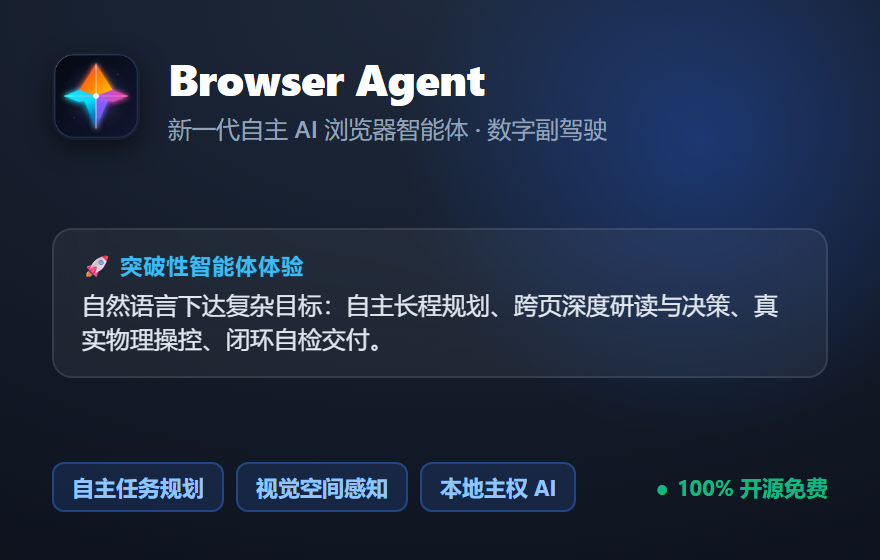
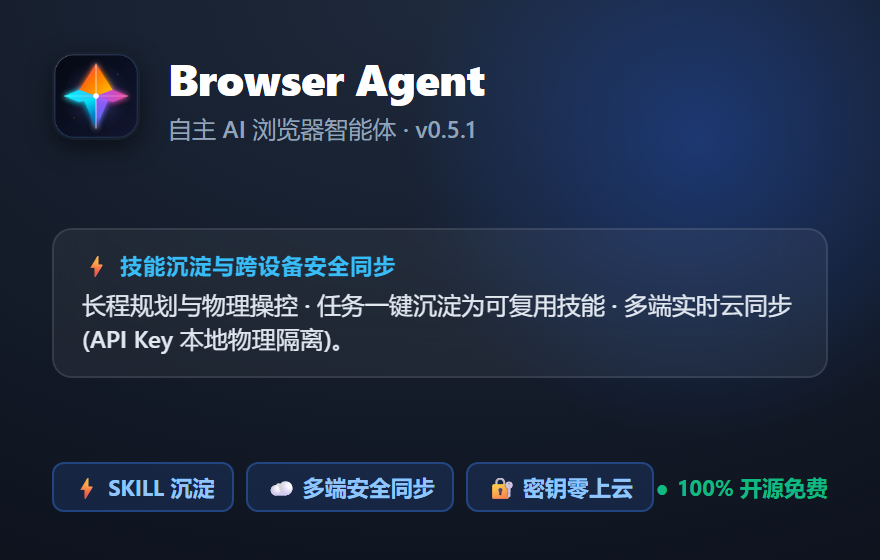
docs(release): regenerate v0.5.1 store assets, hero showcase, and announcement copy

Changed region(s): [[0.092, 0.4554, 0.9205, 0.6375], [0.0614, 0.8196, 0.767, 0.9411], [0.1841, 0.2125, 0.7057, 0.2732]]

diff --git a/scripts/assets/store-hero.html b/scripts/assets/store-hero.html
@@ -467,14 +467,14 @@
     <div class="main-title-box">
       <img src="../../public/icons/icon128.png" style="width: 44px; height: 44px; border-radius: 10px; box-shadow: 0 4px 12px rgba(0,0,0,0.5); margin-right: 12px;">
       <div class="title-text">
-        <h1>Browser Agent <span class="pill-tag">新一代自主智能体</span></h1>
-        <p>感知 · 规划 · 跨页探索 · 物理级操控 · 自我校验 — 个人专属的数字副驾驶</p>
+        <h1>Browser Agent <span class="pill-tag">v0.5.1 新一代自主智能体</span></h1>
+        <p>目标驱动 · 跨页探索 · 物理操控 · ⚡ SKILL 技能沉淀 · ☁ 跨设备安全云同步</p>
       </div>
     </div>
     <div class="feature-chips">
-      <div class="chip">🧠 自主任务规划与自检闭环</div>
-      <div class="chip">👁 真实物理操控 (CDP + 空间视觉)</div>
-      <div class="chip">🔒 本地主权 AI (零云端中转 · BYOK)</div>
+      <div class="chip">⚡ SKILL 沉淀与自适应回放</div>
+      <div class="chip">☁ 跨设备安全云同步</div>
+      <div class="chip">🔒 密钥本地物理隔离 (零上云)</div>
     </div>
   </div>
 
@@ -576,6 +576,24 @@
             <div class="news-meta">205 points by dev_lus 9 hours ago | 52 comments</div>
           </div>
         </div>
+
+        <!-- Floating Skill & Sync Badges -->
+        <div style="position: absolute; bottom: 16px; left: 16px; right: 16px; display: flex; gap: 12px; z-index: 20;">
+          <div style="flex: 1; background: rgba(15, 23, 42, 0.92); backdrop-filter: blur(12px); border: 1px solid rgba(255,255,255,0.18); border-radius: 10px; padding: 8px 12px; display: flex; align-items: center; gap: 10px; box-shadow: 0 8px 24px rgba(0,0,0,0.5);">
+            <div style="font-size: 18px; width: 34px; height: 34px; background: rgba(99,102,241,0.3); border-radius: 8px; display: flex; align-items: center; justify-content: center; flex-shrink: 0;">⚡</div>
+            <div>
+              <div style="font-size: 12px; font-weight: 700; color: #fff;">语义化 SKILL 技能沉淀</div>
+              <div style="font-size: 10.5px; color: #94a3b8;">自动参数化提取 · 跨页自适应回放 · JSON 导入导出</div>
+            </div>
+          </div>
+          <div style="flex: 1; background: rgba(15, 23, 42, 0.92); backdrop-filter: blur(12px); border: 1px solid rgba(255,255,255,0.18); border-radius: 10px; padding: 8px 12px; display: flex; align-items: center; gap: 10px; box-shadow: 0 8px 24px rgba(0,0,0,0.5);">
+            <div style="font-size: 18px; width: 34px; height: 34px; background: rgba(16,185,129,0.3); border-radius: 8px; display: flex; align-items: center; justify-content: center; flex-shrink: 0;">☁</div>
+            <div>
+              <div style="font-size: 12px; font-weight: 700; color: #fff;">跨设备安全云同步</div>
+              <div style="font-size: 10.5px; color: #94a3b8;">Chrome 账号多端即时同步 · API Key 本地物理隔离</div>
+            </div>
+          </div>
+        </div>
       </div>
 
       <!-- Side Panel -->
@@ -586,10 +604,15 @@
             <span>DeepSeek (deepseek-chat)</span>
             <span style="color:#64748b; font-size:10px;">▾</span>
           </div>
-          <div class="usage-stats">
-            <span class="cost">$0.002</span>
-            <span>·</span>
-            <span>1.4k tk</span>
+          <div style="display: flex; align-items: center; gap: 8px;">
+            <div style="background: rgba(99,102,241,0.12); color: #4f46e5; border: 1px solid rgba(99,102,241,0.25); padding: 2px 7px; border-radius: 6px; font-size: 11px; font-weight: 600; display: flex; align-items: center; gap: 4px;">
+              <span>📋</span> 技能 (2)
+            </div>
+            <div class="usage-stats">
+              <span class="cost">$0.002</span>
+              <span>·</span>
+              <span>1.4k tk</span>
+            </div>
           </div>
         </div>
 
@@ -646,6 +669,17 @@
               </tbody>
             </table>
             <button class="export-btn">📥 导出为深度研报 (Markdown / JSON)</button>
+          </div>
+
+          <!-- Save as Skill Prompt Card -->
+          <div style="margin-top: 10px; background: linear-gradient(135deg, #eef2ff, #f5f3ff); border: 1px solid #c7d2fe; border-radius: 8px; padding: 8px 10px; display: flex; align-items: center; justify-content: space-between; box-shadow: 0 2px 5px rgba(79,70,229,0.06);">
+            <div style="display: flex; align-items: center; gap: 6px; font-size: 11px; color: #3730a3; font-weight: 600;">
+              <span>✨</span>
+              <span>觉得这次自动化很棒？保存为可复用技能</span>
+            </div>
+            <div style="background: #4f46e5; color: #fff; padding: 3px 8px; border-radius: 5px; font-size: 10.5px; font-weight: 600; display: flex; align-items: center; gap: 3px; cursor: pointer;">
+              <span>💾</span> 保存技能
+            </div>
           </div>
         </div>
       </div>

diff --git a/scripts/assets/promo-tile.html b/scripts/assets/promo-tile.html
@@ -124,22 +124,22 @@
     <img src="../../public/icons/icon128.png" style="width: 44px; height: 44px; border-radius: 11px; box-shadow: 0 4px 12px rgba(0,0,0,0.5);">
     <div>
       <div class="brand-title">Browser Agent</div>
-      <div class="brand-desc">新一代自主 AI 浏览器智能体 · 数字副驾驶</div>
+      <div class="brand-desc">自主 AI 浏览器智能体 · v0.5.1</div>
     </div>
   </div>
 
   <div class="middle-section">
-    <div class="scenario-title">🚀 突破性智能体体验</div>
+    <div class="scenario-title">⚡ 技能沉淀与跨设备安全同步</div>
     <div class="scenario-text">
-      自然语言下达复杂目标：自主长程规划、跨页深度研读与决策、真实物理操控、闭环自检交付。
+      长程规划与物理操控 · 任务一键沉淀为可复用技能 · 多端实时云同步 (API Key 本地物理隔离)。
     </div>
   </div>
 
   <div class="bottom-section">
     <div class="chips-group">
-      <div class="pill">自主任务规划</div>
-      <div class="pill">视觉空间感知</div>
-      <div class="pill">本地主权 AI</div>
+      <div class="pill">⚡ SKILL 沉淀</div>
+      <div class="pill">☁ 多端安全同步</div>
+      <div class="pill">🔐 密钥零上云</div>
     </div>
     <div class="free-badge">
       <span>●</span> 100% 开源免费

diff --git a/docs/releases/v0.5.1.md b/docs/releases/v0.5.1.md
@@ -1,0 +1,122 @@
+# Browser Agent v0.5.1 发布说明与宣发物料指南
+
+> 🚀 **版本主题**：跨设备安全云同步与可复用 SKILL 技能体系  
+> 📅 **发布时间**：2026 年 9 月  
+> 🏷 **Git Tag**：`v0.5.1`  
+> 📦 **分发包**：`browser-agent-0.5.1.zip`
+
+---
+
+## 🌟 核心新特性概览
+
+### 1. ⚡ 可复用 SKILL 技能沉淀与自适应回放 (Issue #14)
+- **任务一键提炼沉淀**：任务执行完成后，时间线底部自动浮出「保存为技能」卡片，调用模型对执行轨迹进行语义化抽象与参数变量识别（如 `{{keyword}}`、`{{price_limit}}`）。
+- **抗改版自然语言意图**：步骤记录为高层意图而非脆弱的绝对 DOM/XPath 选择器，回放时 Agent 结合目标网页实时 DOM 动态自适应定位，页面改版依然稳定。
+- **侧边栏 📋 技能抽屉**：侧边栏顶部一键拉出技能面板，浏览全部技能、填写参数表单、一键 `[▶ 运行技能]` 立即触发执行。
+- **设置页全能技能编辑器**：提供专门的「技能」管理控制台，支持双栏查看、参数增删与校验规则配置、步骤上下调序 (▲/▼)，以及单个/全量技能 JSON 导入与导出。
+
+### 2. ☁ 跨设备安全云同步与凭证物理隔离 (Cross-Device Cloud Sync)
+- **Chrome 账号多端即时同步**：基于 `chrome.storage.sync`，你在办公室电脑上配置的模型端点与沉淀的技能库，在家中电脑自动同步更新，多端协同无缝衔接。
+- **🛡 凭证物理隔离（绝不上云）**：
+  - API Key 默认**物理隔离**在本地存储（`chrome.storage.local`），写入云端前自动清空脱敏。在公用电脑登录个人账号，也绝无泄露 API Key 的风险。
+  - 用户可显式开启「跨设备同步 API Key」（需弹出高风险确认二次授权）。
+- **Token 敏感词自动净化**：保存技能时自动过滤变量默认值中的 `sk-...`、`ghp_...` 等敏感 Token，防止误将私钥随技能共享或同步。
+- **离线镜像容灾与配额防护**：双层存储架构，所有写操作必然落盘本地，断网或超出 Chrome 100KB 配额时平滑降级，零数据丢失。
+
+---
+
+## 📢 多渠道宣发提示文案 (Release Prompts & Social Copy)
+
+### 1. GitHub Release 发布日志 (Release Notes)
+
+```markdown
+## What's Changed in v0.5.1
+
+### ⚡ Reusable SKILL Workflow System (#14)
+- **One-click Skill Crystallization**: Transform completed tasks into reusable workflows with automatic variable extraction (`{{keyword}}`, `{{category}}`).
+- **Semantic Replay**: Actions recorded as high-level intents; adaptive CDP execution resilient against UI redesigns.
+- **Side Panel Drawer**: Launch, configure parameters, and execute skills directly from the new `📋` header drawer.
+- **Options Skill Studio**: Full-featured dual-column visual editor with step reordering and batch JSON import/export.
+
+### ☁ Cross-Device Cloud Sync with Zero-Leak Secret Isolation
+- **Chrome Account Sync**: Real-time sync of model bindings, site permissions, and skills via `chrome.storage.sync`.
+- **Physical Credential Isolation**: API Keys are strictly kept in `chrome.storage.local` per machine by default and sanitized prior to cloud sync. No credential leaks on shared computers.
+- **Token Sanitizer**: Automatic scrubbing of secret tokens (`sk-...`) in skill default values.
+- **Offline Mirroring**: Dual-layer architecture provides full offline fallback when disconnected.
+
+### 🎨 Visual & Store Asset Updates
+- Refreshed 1280x800 Store Hero, 440x280 Promo Tile, and extension screenshots.
+- Bumped version to 0.5.1 across manifest, package.json, and distribution packages.
+
+**Full Changelog**: https://github.com/lusipad/browser-agent/compare/v0.5.0...v0.5.1
+```
+
+---
+
+### 2. Chrome Web Store 更新说明 (What's New in this Version)
+
+**中文 (100% 简练)**:
+```
+v0.5.1 重大更新：
+1. ⚡ 新增「SKILL 技能沉淀」：任务完成后一键保存为可复用模板，侧栏抽屉即开即用，支持参数化与 JSON 导入导出。
+2. ☁ 新增「跨设备安全云同步」：通过 Chrome 账号在多台电脑间实时同步模型接入与技能库；API Key 默认本地物理隔离绝不上云，保障极端安全。
+3. 🛠 优化长程规划执行稳定性与离线容灾镜像。
+```
+
+**English**:
+```
+v0.5.1 Major Update:
+1. ⚡ Reusable SKILL Workflows: Turn any completed task into a reusable parameterized template with one click. Run from the side panel drawer or import/export via JSON.
+2. ☁ Secure Cross-Device Cloud Sync: Sync model configs and skills across your computers via Chrome account. API Keys are physically isolated on each machine and never sent to cloud sync.
+3. 🛠 Enhanced CDP execution stability and offline mirroring.
+```
+
+---
+
+### 3. 社交媒体短推文 (X / Twitter)
+
+```text
+🚀 Browser Agent v0.5.1 现已发布！带来两大重磅升级：
+
+1⃣ ⚡ 可复用 SKILL 技能沉淀：自动化任务完成后，一键提取为语义化参数模板（比如“在京东按{{预算}}比价”）。下次直接在侧边栏抽屉填参数秒跑！
+2⃣ ☁ 跨设备安全云同步：多台电脑配置与技能库无缝同步！核心凭证物理隔离，API Key 绝不上云，公用电脑使用同样安全。
+
+纯本地主权 · 100% BYOK · 原生 CDP 控制
+👉 GitHub 开源：https://github.com/lusipad/browser-agent
+
+#AI #ChromeExtension #BrowserAgent #OpenSource #DeepSeek
+```
+
+---
+
+### 4. 开发者社区长文 (V2EX / 即刻 / 掘金)
+
+**标题**：开源 Chrome 侧边栏 AI 智能体 Browser Agent v0.5.1：支持工作流沉淀为 SKILL 与零泄露跨设备同步
+
+**正文要点**：
+- **引言**：每次让 AI Agent 帮我们在复杂网页中找数据、填表、比价，完成后怎么把这段高价值的工作流变成以后一键可复用的“技能（Macro）”？
+- **SKILL 机制解析**：传统自动化工具（Selenium/Puppeteer）靠 CSS/XPath，网页一更新就挂。Browser Agent 采用“语义化意图 + 自适应感知”：保存时 LLM 将操作提炼为自然语言意图（例如“点击标有‘加入购物车’的按钮”），执行时 Agent 结合当下的 DOM 结构智能匹配，抗改版能力极强。
+- **跨设备同步如何兼顾安全？**：采用 `chrome.storage.sync` 时，大家最担心的是 API Key 同步到公司电脑或公共电脑导致泄露。我们设计了**分层物理隔离机制**：云端只同步无密钥的配置骨架与技能库，真实 API Key 仅锁死在本机 `chrome.storage.local`，从根源消除安全隐患。
+- **体验与开源地址**：代码完全开源，支持 Ollama、DeepSeek、OpenAI 等任意兼容端点。
+
+---
+
+## 🖼 配图资产清单 (Generated Assets)
+
+| 资产文件 | 分辨率 / 格式 | 用途说明 |
+|---|---|---|
+| [`docs/screenshots/store-hero.png`](file:///d:/Repos/browser-agent/docs/screenshots/store-hero.png) | 1280×800 (Retina 2x) | Chrome Web Store 首屏核心展示大图，包含 SKILL 浮动徽章、云同步标牌与技能保存提示 |
+| [`docs/screenshots/promo-tile-440x280.png`](file:///d:/Repos/browser-agent/docs/screenshots/promo-tile-440x280.png) | 440×280 (Retina 2x) | Chrome Web Store 搜索列表与分类推荐小宣传图 |
+| [`docs/screenshots/options-skills.png`](file:///d:/Repos/browser-agent/docs/screenshots/options-skills.png) | 1280×800 | 设置页中新上线的全能「技能」双栏编辑与参数配置界面真实截图 |
+| [`docs/screenshots/options-sync.png`](file:///d:/Repos/browser-agent/docs/screenshots/options-sync.png) | 1280×800 | 设置页中「跨设备云同步与凭证安全」卡片真实截图（含配额监控与高危隔离） |
+| [`docs/screenshots/sidepanel-skills.png`](file:///d:/Repos/browser-agent/docs/screenshots/sidepanel-skills.png) | 420×750 | 侧边栏技能抽屉（Skill Drawer）真实界面截图 |
+| [`docs/screenshots/demo.gif`](file:///d:/Repos/browser-agent/docs/screenshots/demo.gif) | 动态录屏 | 侧边栏任务执行与动态自检动画 |
+
+---
+
+## 🛠 安装与验证方式
+
+1. 下载最新发布的 `browser-agent-0.5.1.zip` 并解压。
+2. 打开 Chrome，在地址栏输入 `chrome://extensions/`。
+3. 开启右上角的 **「开发者模式」**。
+4. 点击 **「加载已解压的扩展程序」**，选择解压出来的目录即可即刻体验！

diff --git a/docs/store/listing.md b/docs/store/listing.md
@@ -23,13 +23,15 @@ Browser Agent 是一款运行在 Chrome 原生侧边栏中的新一代自主 AI 
 
 🚀 核心智能体能力：
 1. 🧠 自主长程规划与自检闭环：基于认知架构，自主将复杂需求拆解为行动步骤；动作后实时感知页面变化，遇阻自主重试纠偏，直至通过验收。
-2. 🔍 跨页深度调研与信息合成：自主跨多标签页并行检索、阅读长篇文献资料、比对多方数据差异，深度提炼并输出结构化决策研报（Markdown / JSON）。
-3. ✍ 复杂业务流程端到端代劳：跨系统比对信息，自动在现代复杂管理后台中定位多层级表单并执行录入，附带可信物理击键与截图复核。
-4. 👁 原生系统级物理操控与空间视觉：基于 Chrome 官方 CDP 协议生成真实可信的物理鼠标与键盘事件；搭配 Set-of-Marks 视觉标记框，精准攻克单页应用、Shadow DOM 与动态 iframe。
+2. ⚡ 自动化工作流沉淀为 SKILL：任务完成后一键提炼为高复用技能（自动参数化变量 {{var}}，抽象为自然语言语义步骤）；侧栏抽屉即开即用，支持导入/导出共享。
+3. ☁ 跨设备安全云同步（凭证物理隔离）：基于 Chrome 账号多端实时同步模型配置与技能库；API Key 强制脱敏仅留在本机（chrome.storage.local），绝不上云，公用电脑使用无忧。
+4. 🔍 跨页深度调研与信息合成：自主跨多标签页并行检索、阅读长篇文献资料、比对多方数据差异，深度提炼并输出结构化决策研报（Markdown / JSON）。
+5. ✍ 复杂业务流程端到端代劳：跨系统比对信息，自动在现代复杂管理后台中定位多层级表单并执行录入，附带可信物理击键与截图复核。
+6. 👁 原生系统级物理操控与空间视觉：基于 Chrome 官方 CDP 协议生成真实可信的物理鼠标与键盘事件；搭配 Set-of-Marks 视觉标记框，精准攻克单页应用、Shadow DOM 与动态 iframe。
 
 🔒 本地主权与安全防线（BYOK）：
 - 纯正本地主权：直连兼容接口标准的大语言模型端点或本地私有离线模型。您的 API Key 与网页交互数据 100% 保存在本机浏览器中，绝不经由任何第三方中间服务器。
-- 逐站明确授权：首次访问未授权域名需经用户弹窗确认；内置金融与支付网站安全黑名单；密码输入与敏感操作强制二次确认。
+- 凭证物理隔离：配置跨设备同步时 API Key 自动脱敏，敏感 Token 自动净化；内置金融与支付网站安全黑名单；密码输入与敏感操作强制二次确认。
 - 透明预算治理：每步操作实时展示 Token 消耗与核算，内置上下文自动压缩机制，防止超出预算。
 
 > 💡 使用提示：本扩展遵循纯本地与自带模型接口（BYOK）模式，请在设置中填入您自备的模型端点地址与密钥，或连接本地离线模型即可开始使用。
@@ -46,22 +48,24 @@ Browser Agent - Autonomous AI Web Copilot
 
 ### Summary / Short Description (Within 132 chars)
 ```
-Next-gen autonomous browser agent: goal-driven planning, spatial vision & native CDP control with local or custom LLMs. 100% BYOK.
+Autonomous browser agent: goal planning, reusable SKILLs, cross-device sync & native CDP control with local or custom LLMs. 100% BYOK.
 ```
 
 ### Detailed Description
 ```
-Browser Agent is a next-generation autonomous AI browser agent living directly inside your Chrome side panel. Far more than a simple scraping script, it is equipped with autonomous goal planning, cross-tab exploration, native physical control, and self-correcting validation.
+Browser Agent is a next-generation autonomous AI browser agent living directly inside your Chrome side panel. Far more than a simple scraping script, it is equipped with autonomous goal planning, reusable SKILL workflows, secure cross-device sync, and self-correcting validation.
 
 🚀 Agent Superpowers:
 1. 🧠 Autonomous Planning & Self-Correction: Decomposes complex missions into structured steps, validates outcomes after every action, and course-corrects dynamically until completion.
-2. 🔍 Deep Research & Multi-Tab Synthesis: Traverses multiple tabs, digests lengthy technical pages, reconciles disparate data, and synthesizes structured analytical reports (Markdown / JSON).
-3. ✍ End-to-End Workflow & Form Automation: Cross-references data to complete intricate workflows, administrative dashboards, and multi-step registration forms with trusted inputs.
-4. 👁 Native Physical Control & Spatial Vision: Generates authentic user input events via Chrome DevTools Protocol (CDP); pairs with Set-of-Marks visual bounding boxes to conquer SPAs, nested Shadow DOMs, and dynamic iframes.
+2. ⚡ Reusable SKILL Workflows: Turn any completed automation into a parameterized skill with natural language semantic steps; trigger from the sidebar drawer, or import/export via JSON.
+3. ☁ Secure Cross-Device Cloud Sync: Seamlessly sync model configs and skills across your devices via Chrome account; API Keys strictly physically isolated in local storage (never cloud-synced).
+4. 🔍 Deep Research & Multi-Tab Synthesis: Traverses multiple tabs, digests lengthy technical pages, reconciles disparate data, and synthesizes structured analytical reports (Markdown / JSON).
+5. ✍ End-to-End Workflow & Form Automation: Cross-references data to complete intricate workflows, administrative dashboards, and multi-step registration forms with trusted inputs.
+6. 👁 Native Physical Control & Spatial Vision: Generates authentic user input events via Chrome DevTools Protocol (CDP); pairs with Set-of-Marks visual bounding boxes to conquer SPAs, nested Shadow DOMs, and dynamic iframes.
 
 🔒 Sovereign Local-First Architecture (Zero-Cloud):
 - 100% Private (BYOK): Direct connection to your own standard model endpoints or local offline LLM instances. All API credentials and browsing data remain strictly inside your browser. No intermediary cloud servers, zero data tracking.
-- Transparent Security: Explicit per-site authorization prompt, built-in financial domain blocklist, and mandatory confirmation for sensitive actions.
+- Credential Security: Physical secret isolation on local device; automatic token sanitization for skill variables; built-in financial domain blocklist; mandatory confirmation for sensitive actions.
 - Context & Cost Governance: Real-time token usage accounting and automated context governance to eliminate token waste.
 
 > 💡 Getting Started: This is a Bring-Your-Own-Key (BYOK) extension. Connect your own preferred model endpoint or local offline instance in Settings to get started.
@@ -77,7 +81,7 @@ Browser Agent is a next-generation autonomous AI browser agent living directly i
 | **`scripting`** | 向**用户已授权的页面**注入自包含的轻量 DOM 感知函数，收集可交互元素供模型定位与操作。 |
 | **`tabs` / `tabGroups`** | 列出/新建/关闭标签页，并把智能体新建的标签页归入「🤖 Agent」独立标签组，便于用户识别与隔离。 |
 | **`webNavigation`** | 感知页面导航与帧结构，在动作后等待页面真正加载完成（network-idle）。 |
-| **`storage`** | 在本机 `chrome.storage.local` 保存服务商配置、对话历史、站点授权。**不含任何远程服务器存储**。 |
+| **`storage`** | 用于保存用户配置、已授权站点和技能库。支持通过 `chrome.storage.sync` 跨设备同步配置与技能（API Key 经脱敏处理，强制保存在本地 `chrome.storage.local`，绝不上云）。**不含任何外部远程服务器存储**。 |
 | **`downloads`** | 用户主动导出对话记录（Markdown/JSON）或生成 GIF 时保存到下载目录。 |
 | **`sidePanel`** | 扩展的主界面运行在 Chrome 原生侧边栏。 |
 | **`host_permissions: <all_urls>`** | 用户需要智能体在任意工作网站上执行任务；但**实际操作前每个站点都必须经用户弹窗逐站授权**，未授权站点不会被读取或操作，且金融支付站点预置禁止。 |
